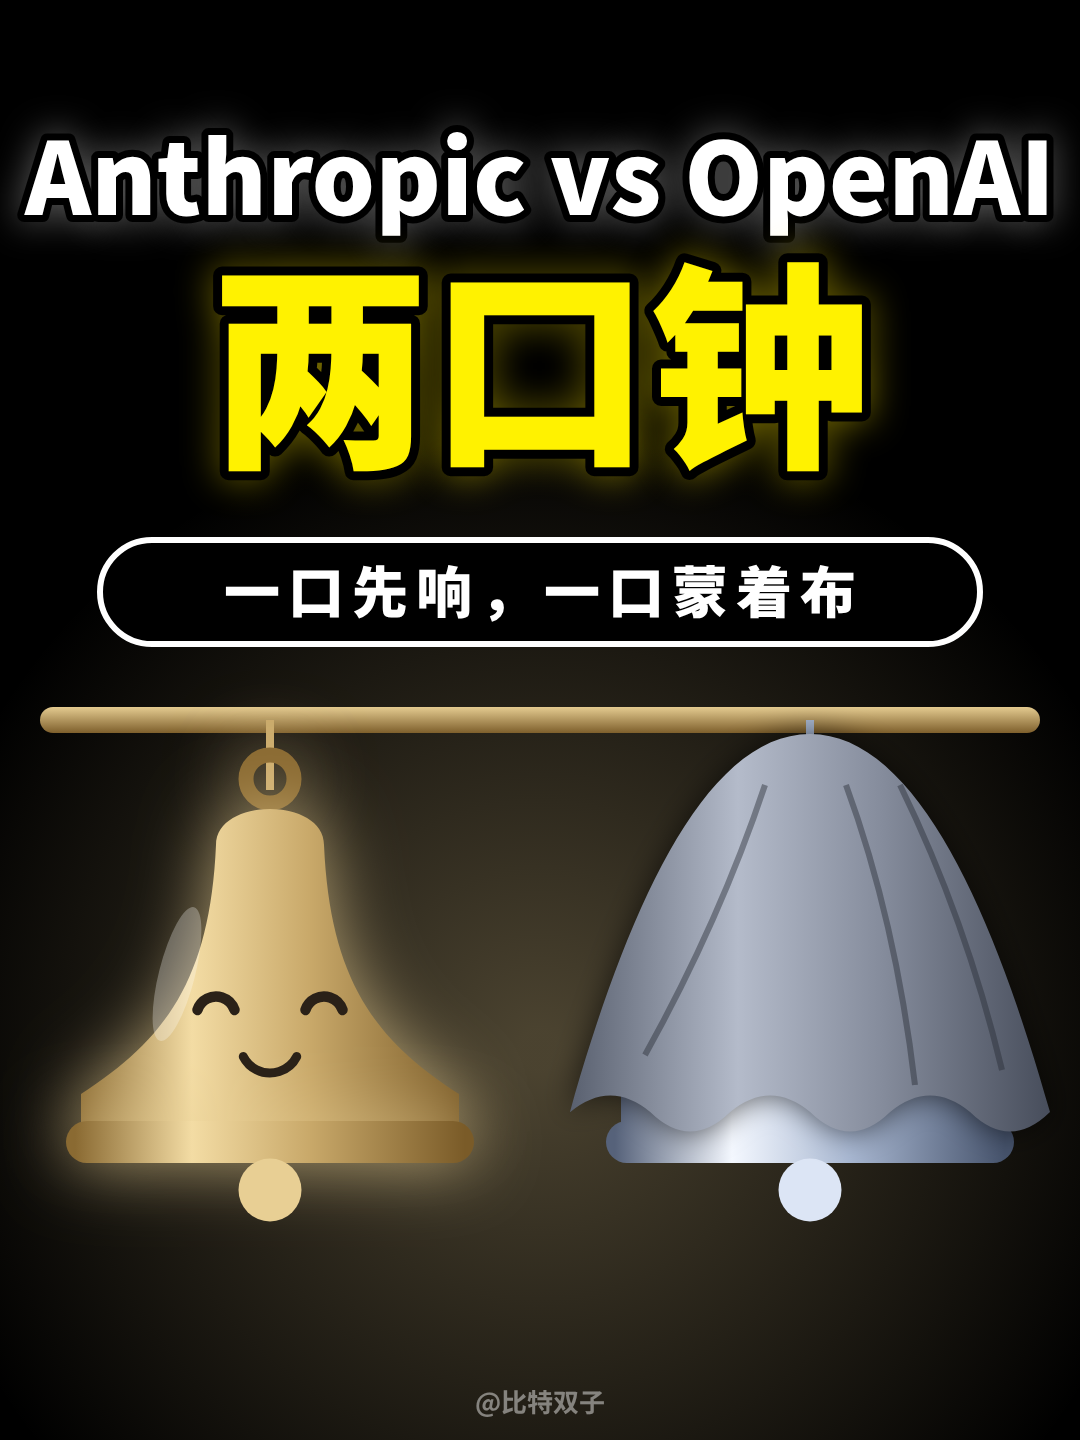
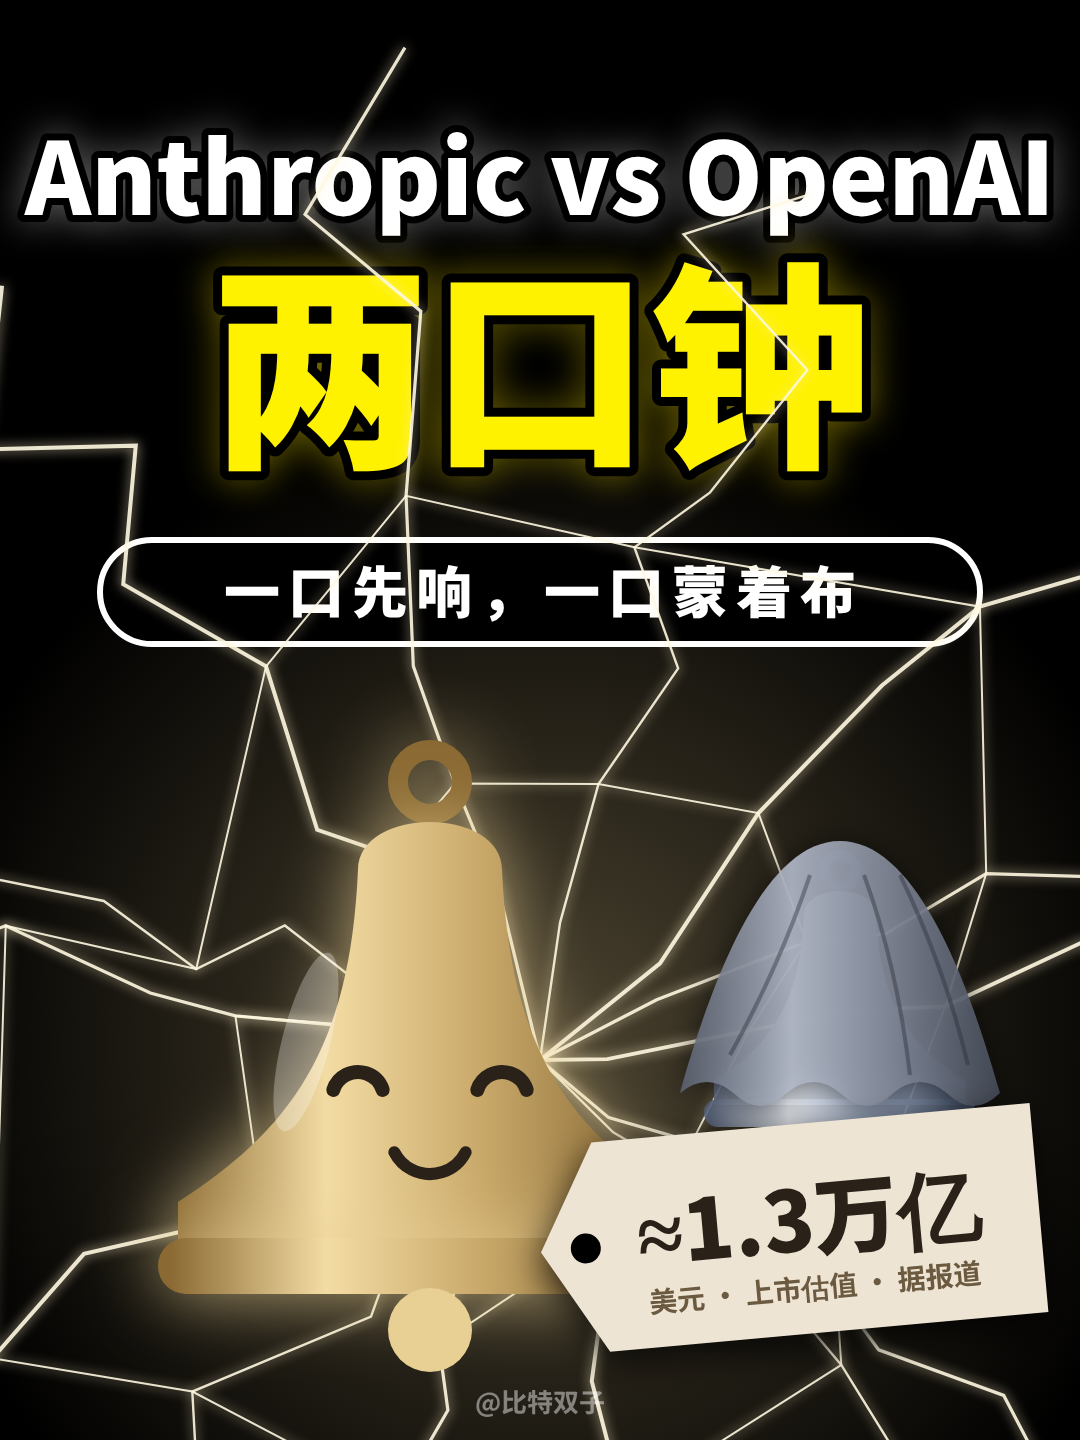
New 3:4 cover: bell cracking the screen with the price tag
Claude-Session: https://claude.ai/code/session_01Vdfste6wceGsY4RMLrPVfA

diff --git a/projects/anthropic_vs_openai_60s/src/cover.html b/projects/anthropic_vs_openai_60s/src/cover.html
@@ -68,6 +68,12 @@ function silverCovered(x, y, sc) {
 }
 function beamC(x0, x1, y) { const g = ctx.createLinearGradient(0, y - 14, 0, y + 14); g.addColorStop(0, '#E8CF94'); g.addColorStop(1, '#7a5b28'); ctx.fillStyle = g; ctx.beginPath(); ctx.roundRect(x0, y - 13, x1 - x0, 26, 13); ctx.fill(); }
 function ropeC(x, y0, y1, c) { ctx.strokeStyle = c; ctx.lineWidth = 8; ctx.beginPath(); ctx.moveTo(x, y0); ctx.lineTo(x, y1); ctx.stroke(); }
+function crackC(cx, cy, seed) {
+  let a = seed; const rnd = () => { a |= 0; a = a + 0x6D2B79F5 | 0; let t = Math.imul(a ^ a >>> 15, 1 | a); t = t + Math.imul(t ^ t >>> 7, 61 | t) ^ t; return ((t ^ t >>> 14) >>> 0) / 4294967296; };
+  ctx.save(); ctx.translate(cx, cy); ctx.strokeStyle = 'rgba(255,248,225,0.9)'; ctx.shadowColor = 'rgba(255,240,200,0.9)'; ctx.shadowBlur = 12; ctx.lineJoin = 'miter';
+  const rays = []; for (let i = 0; i < 14; i++) { const an = i / 14 * 6.283 + (rnd() - 0.5) * 0.3, pts = [[0, 0]]; let d = 0; while (d < 900) { d += 60 + rnd() * 120; const a2 = an + (rnd() - 0.5) * 0.28; pts.push([Math.cos(a2) * d, Math.sin(a2) * d]); } rays.push(pts); ctx.lineWidth = 4 - (i % 3) * 0.8; ctx.beginPath(); pts.forEach(([x, y], j) => j ? ctx.lineTo(x, y) : ctx.moveTo(0, 0)); ctx.stroke(); }
+  ctx.lineWidth = 2; [2, 4].forEach(k => { ctx.beginPath(); rays.forEach((p, i) => { const q = p[Math.min(k, p.length - 1)]; i ? ctx.lineTo(q[0], q[1]) : ctx.moveTo(q[0], q[1]); }); ctx.closePath(); ctx.stroke(); }); ctx.restore();
+}
 function draw() {
   ctx.fillStyle = '#000'; ctx.fillRect(0, 0, W, H);
   if (!WIDE) {
@@ -75,7 +81,12 @@ function draw() {
     outlined('Anthropic vs OpenAI', 540, 215, 100, '#ffffff', '#000', 14, 'rgba(255,255,255,0.35)');
     outlined('两口钟', 540, 450, 220, '#fff200', '#000', 18, 'rgba(255,230,0,0.45)');
     pill(540, 540, 880, 104, 56, '一口先响，一口蒙着布');
-    beamC(40, 1040, 720); ropeC(270, 720, 790, '#C9A96A'); ropeC(810, 720, 790, '#A9B8D2'); bell(270, 830, 1.5); silverCovered(810, 830, 1.5);
+    crackC(540, 1060, 7); ctx.save(); ctx.globalAlpha = 0.9; silverCovered(840, 905, 1.0); ctx.restore();
+    bell(430, 850, 2.0);
+    ctx.save(); ctx.translate(790, 1230); ctx.rotate(-0.09); ctx.shadowColor = 'rgba(0,0,0,0.8)'; ctx.shadowBlur = 36; ctx.shadowOffsetY = 12;
+    ctx.beginPath(); ctx.moveTo(-250, 0); ctx.lineTo(-190, -105); ctx.lineTo(250, -105); ctx.lineTo(250, 105); ctx.lineTo(-190, 105); ctx.closePath(); ctx.fillStyle = '#EDE4D3'; ctx.fill(); ctx.shadowColor = 'transparent';
+    ctx.fillStyle = '#000'; ctx.beginPath(); ctx.arc(-205, 0, 15, 0, 6.283); ctx.fill();
+    ctx.font = `900 84px ${SANS}`; ctx.fillStyle = '#2a2118'; ctx.textAlign = 'center'; ctx.fillText('≈1.3万亿', 20, 22); ctx.font = `700 28px ${SANS}`; ctx.fillStyle = '#6b5a40'; ctx.fillText('美元 · 上市估值 · 据报道', 20, 70); ctx.restore();
     ctx.save(); ctx.font = `700 26px ${SANS}`; ctx.fillStyle = 'rgba(255,255,255,0.45)'; ctx.textAlign = 'center'; ctx.fillText('@比特双子', 540, 1412); ctx.restore();
   } else {
     glow(1000, 700, 560, GOLDC, 0.32);
